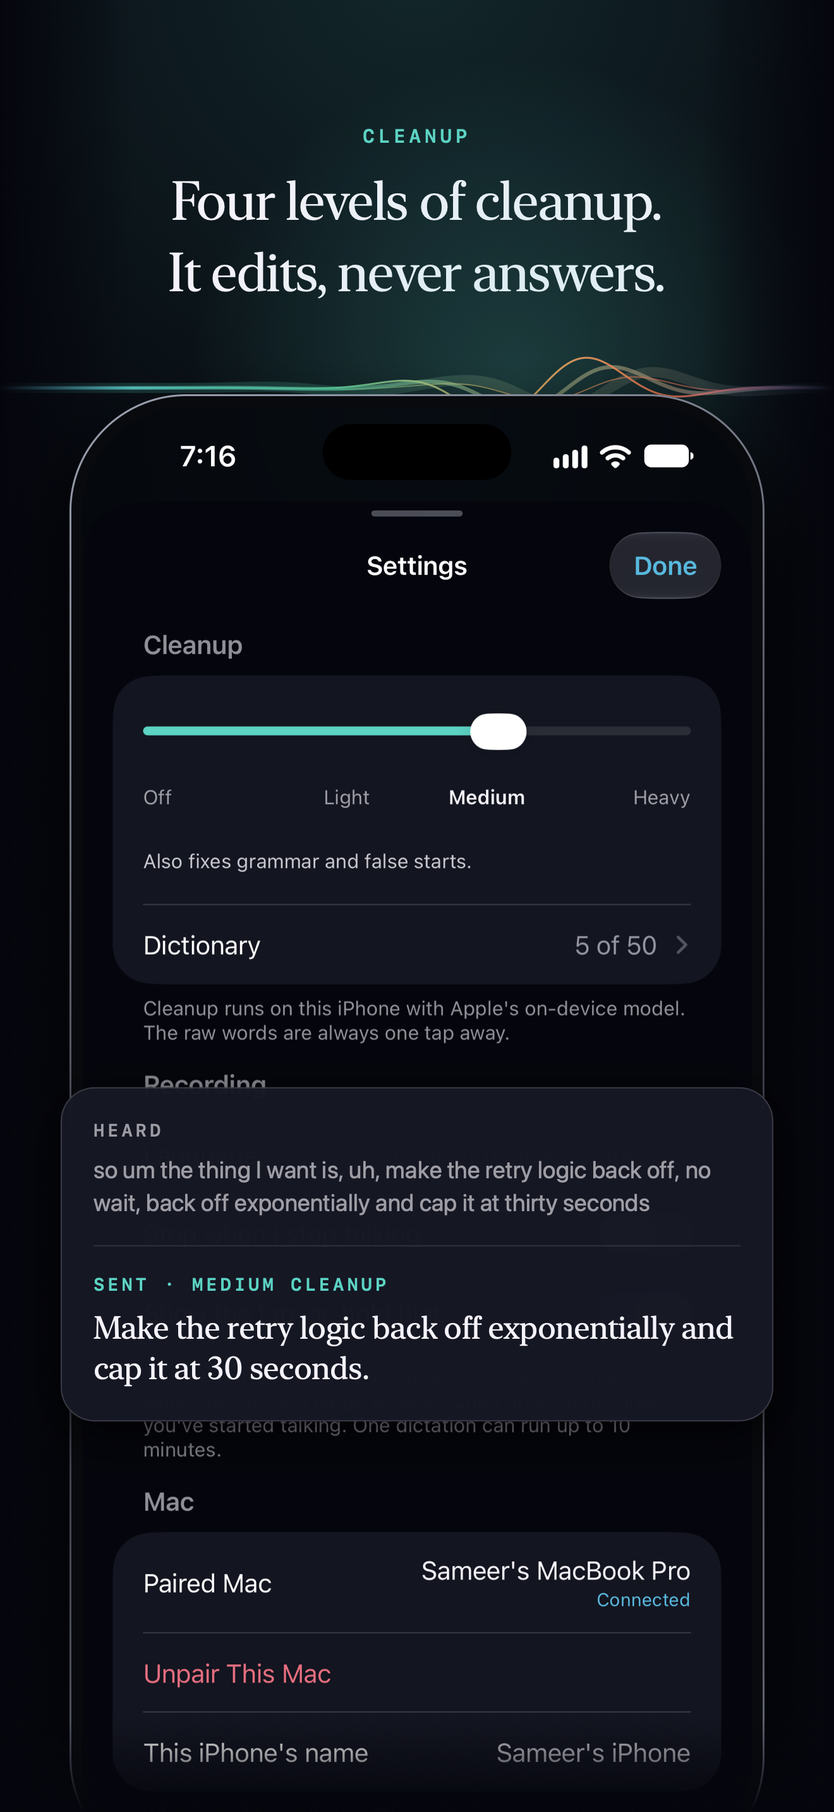
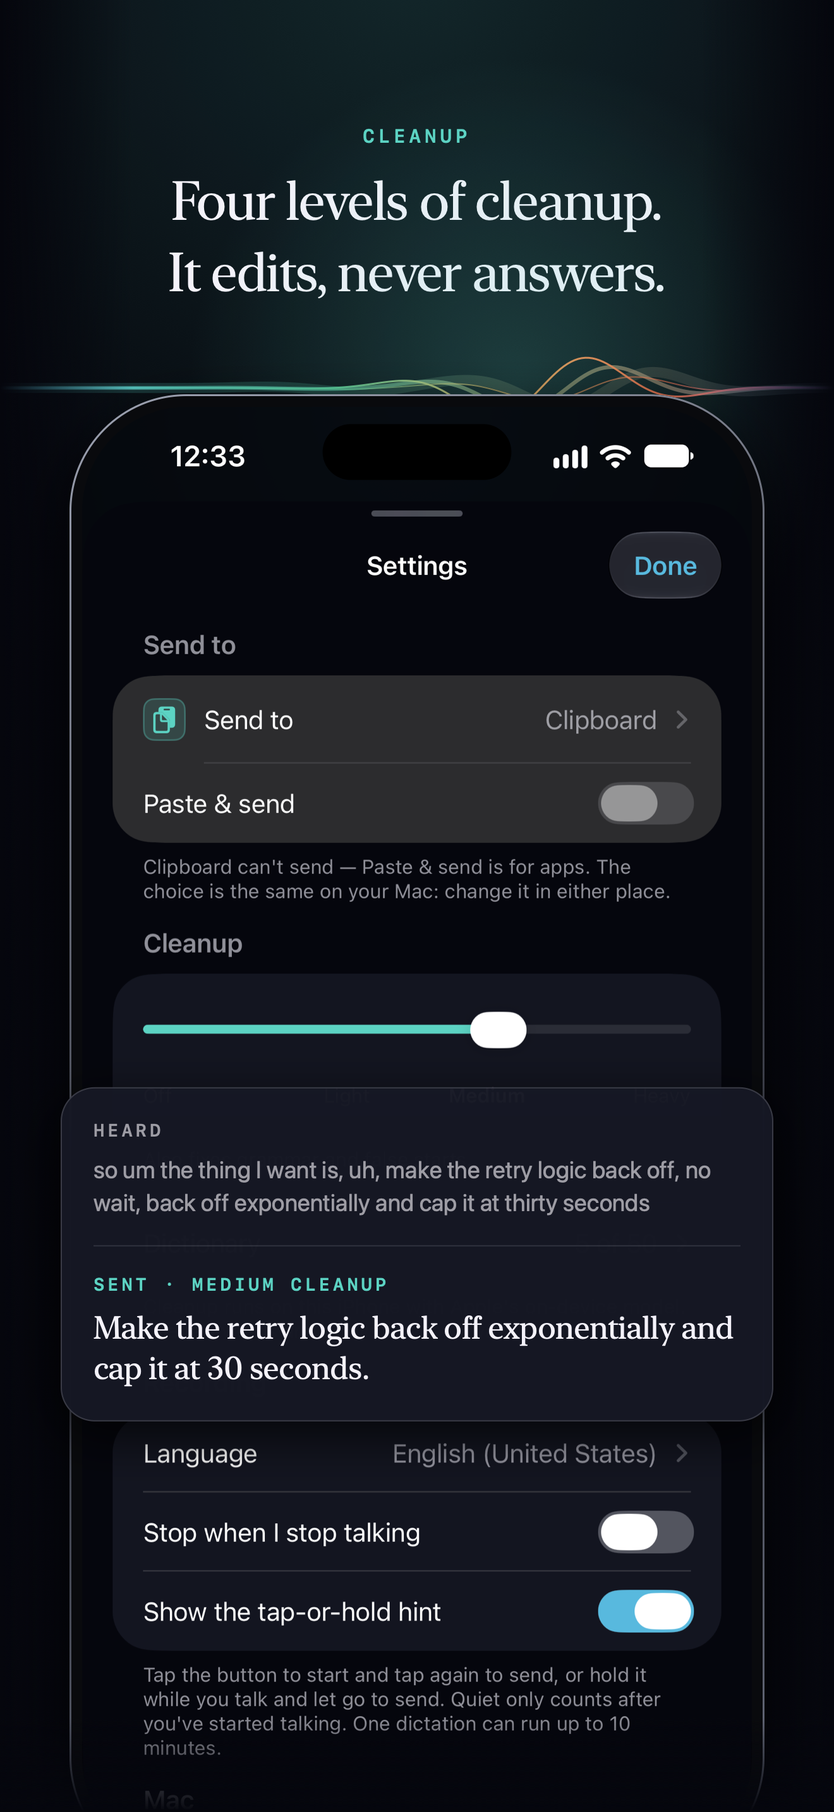
iPhone: status line fills its fixed slot (shrinks to fit, Open Settings rides in the line), idle words step down at huge text, Paste/Send follows an app said first, Mac-sent names shown as the phone lists them, Paste control after the list in the picker; tests for accessibility sizes, quick controls

diff --git a/iOS/MacrophoneUITests/MacrophoneUITests.swift b/iOS/MacrophoneUITests/MacrophoneUITests.swift
@@ -20,6 +20,12 @@ final class MacrophoneUITests: XCTestCase {
         app.staticTexts.containing(NSPredicate(format: "label CONTAINS %@", text)).firstMatch.waitForExistence(timeout: timeout)
     }
 
+    /// Delivered (in the Mac's own words: "Pasted into …", "Sent to …", "Copied …"), copied on the
+    /// iPhone, or queued.
+    private func delivered(_ app: XCUIApplication) -> Bool {
+        statusContains(app, "Delivered") || ["Copied", "Pasted into", "Sent to", "Printed by", "queued"].contains { statusContains(app, $0, timeout: 1) }
+    }
+
     func testTapStartsAndTapSends() {
         let app = launch(["MACROPHONE_SCREEN": "main", "MACROPHONE_SIM_RECORD": "testing the tap to talk path one two three"])
         let start = app.buttons["Start dictation"]
@@ -31,7 +37,7 @@ final class MacrophoneUITests: XCTestCase {
         XCTAssertTrue(stop.exists, "a quick tap keeps recording (tap mode)")
         stop.tap()
         XCTAssertTrue(app.buttons["Start dictation"].waitForExistence(timeout: 5), "a second tap stops")
-        XCTAssertTrue(statusContains(app, "Delivered") || statusContains(app, "Copied on iPhone", timeout: 1) || statusContains(app, "queued", timeout: 1))
+        XCTAssertTrue(delivered(app))
     }
 
     func testHoldToTalkSendsOnRelease() {
@@ -41,7 +47,7 @@ final class MacrophoneUITests: XCTestCase {
         start.press(forDuration: 1.5)
         XCTAssertTrue(app.buttons["Start dictation"].waitForExistence(timeout: 3), "letting go stops")
         XCTAssertFalse(app.buttons["Stop and send"].exists)
-        XCTAssertTrue(statusContains(app, "Delivered") || statusContains(app, "Copied on iPhone", timeout: 1) || statusContains(app, "queued", timeout: 1))
+        XCTAssertTrue(delivered(app))
     }
 
     /// The mic button sits in one place: idle or recording, with or without a last dictation,
@@ -110,6 +116,31 @@ final class MacrophoneUITests: XCTestCase {
                       "MACROPHONE_FAKE_TRANSCRIPT": "hello from my iPhone", "MACROPHONE_FAKE_DELAY": "1"])
         XCTAssertTrue(app.buttons["mac-app-nudge"].waitForExistence(timeout: 10))
         same(idle, frame(app, "Start dictation"), "the Mac-app nudge keeps the button in place")
+    }
+
+    /// At accessibility text sizes the page may scroll, but starting to record still doesn't move
+    /// the button: the card keeps its room and fades, the quick controls stay where they are.
+    func testMicButtonNeverMovesAtAccessibilitySizes() {
+        for size in ["UICTContentSizeCategoryAccessibilityM", "UICTContentSizeCategoryAccessibilityXXXL"] {
+            let app = XCUIApplication()
+            app.launchArguments = ["-UIPreferredContentSizeCategoryName", size]
+            app.launchEnvironment = ["MACROPHONE_RESET": "1", "MACROPHONE_SCREEN": "main", "MACROPHONE_FAKE_PAIRED": "Test Mac",
+                                     "MACROPHONE_FAKE_HISTORY": "1", "MACROPHONE_SEND_TO": "Claude", "MACROPHONE_SEND": "1",
+                                     "MACROPHONE_SIM_RECORD": "Messages, a long enough sentence to fill a few lines of words while I keep on talking"]
+            app.launch()
+            let start = app.buttons["Start dictation"]
+            XCTAssertTrue(start.waitForExistence(timeout: 8))
+            let idle = start.frame
+            start.tap()
+            sleep(3)
+            let stop = app.buttons["Stop and send"]
+            XCTAssertTrue(stop.waitForExistence(timeout: 3))
+            XCTAssertEqual(idle.midY, stop.frame.midY, accuracy: 0.5, "\(size): recording keeps the button in place")
+            stop.tap()
+            sleep(4)
+            XCTAssertEqual(idle.midY, app.buttons["Start dictation"].frame.midY, accuracy: 0.5, "\(size): the new last dictation keeps the button in place")
+            app.terminate()
+        }
     }
 
     /// Each quick control changes the next dictation: where it goes, Paste or Paste & send, and the
@@ -290,6 +321,27 @@ final class MacrophoneUITests: XCTestCase {
         let app = launch(["MACROPHONE_RESET": "1", "MACROPHONE_FAKE_PAIRED": "Sameer's MacBook Pro", "MACROPHONE_FAKE_HISTORY": "1", "MACROPHONE_SCREEN": ProcessInfo.processInfo.environment["MACROPHONE_DUMP"] ?? "history"])
         sleep(3)
         print("DUMP\n" + app.debugDescription)
+    }
+
+    /// Against a real stand-in Mac (`mpctl serve --commands`, already paired): a pick on the phone
+    /// reaches the Mac, and a change made on the Mac shows on the phone's chip while it's open.
+    /// Run with TEST_RUNNER_MACROPHONE_LIVE=1; while it waits, type `select com.anthropic.claudefordesktop`
+    /// into mpctl.
+    func testLiveSyncWithMac() throws {
+        guard ProcessInfo.processInfo.environment["MACROPHONE_LIVE"] == "1" else { throw XCTSkip("needs mpctl serve") }
+        let app = launch(["MACROPHONE_SCREEN": "main"])
+        XCTAssertTrue(statusContains(app, "Ready", timeout: 20), "connected")
+        app.buttons["send-to"].tap()
+        let messages = app.buttons.containing(NSPredicate(format: "label BEGINSWITH 'Messages'")).firstMatch
+        XCTAssertTrue(messages.waitForExistence(timeout: 5), "the Mac's open apps are listed")
+        messages.tap()
+        XCTAssertTrue(app.buttons["Paste & send"].waitForExistence(timeout: 3))
+        app.buttons["Paste & send"].tap()
+        print("LIVE picked Messages + send")
+        let changed = NSPredicate(format: "label CONTAINS 'Claude'")
+        expectation(for: changed, evaluatedWith: app.buttons["send-to"])
+        waitForExpectations(timeout: 60)
+        print("LIVE chip now: \(app.buttons["send-to"].label)")
     }
 
     func testPairingLinkFromCamera() throws {

diff --git a/iOS/Macrophone/UI/StatusLine.swift b/iOS/Macrophone/UI/StatusLine.swift
@@ -11,51 +11,39 @@ struct StatusLine: View {
 
     var body: some View {
         let (text, color) = content
-        let settings = settingsLink
         Group {
-            if settings {
+            if settingsLink {
                 // The fix is in Settings: the whole line is the way there (no extra row to make room for).
                 Button {
                     if let url = URL(string: UIApplication.openSettingsURLString) { UIApplication.shared.open(url) }
-                } label: { ladder(text, color, link: true) }
+                } label: { line(text, color, link: true) }
                 .buttonStyle(.plain)
                 .accessibilityLabel(text)
                 .accessibilityHint("Opens Settings.")
             } else {
-                ladder(text, color, link: false)
-                    .accessibilityElement(children: .ignore)
+                line(text, color, link: false)
                     .accessibilityLabel(text)
                     .accessibilityAddTraits(.updatesFrequently)
             }
         }
-        .frame(maxWidth: .infinity)
+        .frame(maxWidth: .infinity, maxHeight: .infinity, alignment: .top)
         .padding(.horizontal, 24)
         .animation(.easeInOut(duration: 0.2), value: text)
     }
 
     private var settingsLink: Bool { if case .problem(_, true) = model.status { return true }; return false }
 
-    /// The line in the largest size that fits its fixed slot (MainView): the status font, then a
-    /// size down, then two down — never cut.
-    private func ladder(_ text: String, _ color: Color, link: Bool) -> some View {
-        ViewThatFits(in: .vertical) {
-            line(text, color, link: link, font: .subheadline)
-            line(text, color, link: link, font: .footnote)
-            line(text, color, link: link, font: .caption)
-            line(text, color, link: link, font: .caption2).minimumScaleFactor(0.7)
-        }
-    }
-
-    private func line(_ text: String, _ color: Color, link: Bool, font: Font) -> some View {
+    /// The line fills its fixed slot (MainView): a long one shrinks to fit whole — never cut.
+    private func line(_ text: String, _ color: Color, link: Bool) -> some View {
         // The dot rides in the sentence, so it stays beside the first word however the line wraps.
         var t = Text(Image(systemName: "circle.fill")).font(.system(size: dotSize)).foregroundColor(color).baselineOffset(dotSize * 0.2)
             + Text("\u{2002}") + Text(text)
         if link { t = t + Text("  Open Settings").foregroundColor(Light.cyan).fontWeight(.semibold) }
         return t
-            .font(font)
+            .font(.subheadline)
             .foregroundStyle(Ink.secondary)
             .multilineTextAlignment(.center)
-            .fixedSize(horizontal: false, vertical: true)
+            .minimumScaleFactor(0.6)
             .shadow(color: color.opacity(0.25), radius: 6)
     }
 

diff --git a/iOS/Macrophone/UI/SendTo.swift b/iOS/Macrophone/UI/SendTo.swift
@@ -362,22 +362,6 @@ struct SendToList: View {
 
     var body: some View {
         List {
-            if settings.selection.target.canSend {
-                Section {
-                    Picker("After pasting", selection: Binding(get: { settings.selection.send }, set: { model.setSend($0) })) {
-                        Text("Paste").tag(false)
-                        Text("Paste & send").tag(true)
-                    }
-                    .pickerStyle(.segmented)
-                    .accessibilityIdentifier("picker-send")
-                } header: {
-                    Text("For \(settings.selection.target.displayName)")
-                } footer: {
-                    Text("Paste & send presses the app's send key after a short countdown on your Mac. Remembered for each place.")
-                }
-                .listRowBackground(Ink.raised)
-            }
-
             Section {
                 row(.clipboard, icon: nil, subtitle: "Copies it on your Mac, to paste yourself")
                 row(.frontApp, icon: nil, subtitle: "Pastes into whatever app is in front on your Mac")
@@ -417,6 +401,21 @@ struct SendToList: View {
                 } footer: {
                     Text("Notes, reminders, scripts and the like, set up in Macrophone on your Mac. Start with an automation's name to use it once: “Note, call the bank.”")
                         .padding(.top, 4)
+                }
+                .listRowBackground(Ink.raised)
+            }
+            if settings.selection.target.canSend {
+                Section {
+                    Picker("After pasting", selection: Binding(get: { settings.selection.send }, set: { model.setSend($0) })) {
+                        Text("Paste").tag(false)
+                        Text("Paste & send").tag(true)
+                    }
+                    .pickerStyle(.segmented)
+                    .accessibilityIdentifier("picker-send")
+                } header: {
+                    Text("For \(settings.selection.target.displayName)")
+                } footer: {
+                    Text("Paste & send presses the app's send key after a short countdown on your Mac. Remembered for each place.")
                 }
                 .listRowBackground(Ink.raised)
             }

diff --git a/iOS/Macrophone/App/AppModel.swift b/iOS/Macrophone/App/AppModel.swift
@@ -968,6 +968,11 @@ extension AppModel: LinkClientDelegate {
     func linkClient(_ client: LinkClient, selectionChanged selection: SendSelection, macID: UUID) {
         guard client === self.client else { return }
         recordingOverride = nil
+        var selection = selection
+        // Show the app the way the phone lists it ("Terminal — claude"), whatever name the Mac sent.
+        if case .app = selection.target, let live = liveTarget(for: selection.target) {
+            selection = SendSelection(target: live.ref, send: selection.send)
+        }
         settings.selection = selection
         log.add("send to changed on the Mac: \(Self.kind(selection.target))\(selection.send ? " + send" : "")")
     }

diff --git a/iOS/Macrophone/UI/MainView.swift b/iOS/Macrophone/UI/MainView.swift
@@ -151,6 +151,9 @@ struct MainView: View {
             }
             idleLine(line, compact ? .title3 : .title2)
             idleLine(line, .headline)
+            // Huge text in a short area: the line, shrunk to fit whole rather than cut off.
+            Text(line).font(.serif(.headline)).foregroundStyle(Ink.ink).multilineTextAlignment(.center)
+                .lineLimit(3).minimumScaleFactor(0.4)
         }
         .frame(maxWidth: .infinity)
         .padding(.bottom, 8)
@@ -212,6 +215,7 @@ struct MainView: View {
         } content: {
             StatusLine(recorder: recorder, holding: holding)
         }
+        .dynamicTypeSize(...DynamicTypeSize.accessibility3)
     }
 
     private func pressDown() {

diff --git a/iOS/Macrophone/Model/HistoryItem.swift b/iOS/Macrophone/Model/HistoryItem.swift
@@ -36,6 +36,7 @@ struct HistoryItem: Codable, Identifiable, Sendable, Hashable {
     /// "Messages", "Clipboard", "Where I'm typing", an automation's name — or nil for older
     /// dictations sent on Automatic.
     var targetName: String? {
+        if delivery == .copiedOnPhone { return nil }   // no Mac: it never went anywhere but here
         if let t = dictation.target { return t.displayName }
         return dictation.profileSource == .automatic ? nil : dictation.profileName
     }

diff --git a/iOS/docs/RECORDING.md b/iOS/docs/RECORDING.md
@@ -31,7 +31,7 @@
 
 ## Cleanup
 
-`Cleaner.clean(_:level:dictionary:language:deadline:)` with the level (the target's level wins
+`Cleaner.clean(_:level:dictionary:language:deadline:)` with the level (an automation's level wins
 when it sets one), prewarmed on record start (the prewarmed session is reused when the level
 and dictionary match). English only; unavailable → the dial is disabled with its one-line
 explanation and the app behaves as Off.
@@ -45,39 +45,89 @@ finish before the deadline: finished chunks come back cleaned and the rest as sp
 dictation card); the Raw toggle still holds the whole transcript. A hard stop 5 s past the
 deadline sends the words as spoken if a model call hangs.
 
-## Send to (targets)
+## Send to: the Mac's open apps (Oct 13 2026)
 
-The Mac's profiles are **targets** ("Claude", "Claude Code (Terminal)", "ChatGPT", …). The
-phone keeps the last list it was sent (`CachedProfile`: each target's name, cleanup level and
-voice prefixes), so the picker, voice prefixes, Shortcuts and the Control Center control work
-while the Mac is away. The app keeps it in its defaults and mirrors it to a keychain item in the
-shared access group `<team>.com.sameer.macrophone.shared`, which the Controls extension reads to
-offer targets ("Dictate to Claude"). Not an App Group: the wildcard team profile this Mac signs
-with can't carry one. The app's own keychain group stays first in `keychain-access-groups`, so
-the pairing key (stored without an explicit group) stays private to the app; a pairing made
-before this entitlement still loads (checked on the simulator).
+Sameer's simplification: no configured targets, no Automatic, no per-app rules. The Mac lists
+every open app (or window) with somewhere to type (`LiveTarget`: icon, name, newest first) and
+the phone picks one. Before/after screens: `docs/screens/targets/`.
 
-For each dictation (`AppModel.route(for:)`):
+**The picker** (`UI/SendTo.swift`, `SendToList`): **Clipboard**, **Where I'm typing** (the app in
+front on the Mac), then **Open on <Mac>** — the apps the Mac reports, windows as their own rows
+("Terminal — claude"), the Mac's icons — then **Automations** (the Mac's profiles, which are now
+only automations: notes, reminders, tmux, Ask Claude, scripts…). Opening it asks the Mac to look
+again (`refreshTargets()`). A picked app that's no longer open stays picked and shows "Not open on
+your Mac — it'll be copied instead" (the chip gets an ochre edge and says so to VoiceOver). The
+list is cached (`targets.json`; names only for Shortcuts and the control) so it works while the
+Mac is away.
 
-1. **Voice prefix** — `VoicePrefix.match(raw, profiles:)` on the transcript. A match picks that
-   target for this one dictation (`profileSource = .prefix`), its cleanup level applies, and the
-   prefix is taken off what's cleaned and sent. `raw` keeps exactly what was heard; when
-   cleanup is off the stripped words go in `cleaned` (the toggle reads "Sent / Raw"). Status:
-   "Sent to Claude — you said “Claude, …”". While recording, the chip flips to "SAID · Claude"
-   the moment the prefix is heard.
-2. **A Shortcut, Siri, the Action Button or a control** that names a target → `.chosen` for
-   that recording (its "Automatic" entity → `.automatic`). It doesn't change the saved choice.
-3. **The Send-to chip** by the mic: Automatic (`.automatic`, no profile id — the Mac picks by
-   the app in front) or a target (`.chosen`). A fresh install defaults to Automatic; a target
-   the Mac drops falls back to Automatic.
+**One shared choice** (`SendSelection` in `Settings.selection`, a fresh install = Clipboard):
+`client.selectionProvider` reads it (without the main actor) and the link sends it after every
+welcome, so on reconnect **the phone's choice wins**; any change on the phone calls
+`client.setSelection`; a change made on the Mac (`selectionChanged`) is applied without being sent
+back, its app name swapped for the phone's own listing. Paste or Paste & send is remembered per
+target (`settings.sendByTarget`, keyed by `TargetRef.storageKey`) and only offered for apps and
+Where I'm typing.
 
-Verified against `scripts/route-sink` (a stand-in Mac offering prefixed targets; prints each
-dictation's `profileSource`, target, raw and sent text): Automatic → `automatic`, no profile;
-"Claude, refactor…" → `prefix` Claude, sent "Refactor…", raw intact; "Claude code: run…" →
-the longer prefix wins, at that target's Light cleanup; "Chat GPT. Compare…" → ChatGPT; a
-pick → `chosen`; a sentence that only starts like a prefix ("note that…") → the pick; the
-Start Dictation intent with a target → `chosen`, with Automatic → `automatic`, overriding the
-saved pick.
+**The quick controls by the mic** (Sameer: the level of correction, which app, paste or paste
+and send — "all those should be quick taps"): one tap each, applied to the next dictation (or the
+one being recorded — the route is read when it's processed) and synced to the Mac at once.
+1. **Where** — the chip: icon + name ("SEND TO" kicker, "SAID" in ember while a spoken name is
+   heard); tap → the picker. Long names step down a ladder (kicker off → smaller → two lines),
+   never "…".
+2. **Paste | Paste & send** — a two-way switch, no sheet; disabled with its reason ("Clipboard
+   can't send", "Automations can't send", "Pair your Mac to send"). While recording with an app
+   said first, it shows and sets that app's own setting.
+3. **Cleanup** — a menu chip ("Medium cleanup ⌄"): the four levels each with their one-line
+   summary, the current one ticked; unavailable → "Cleanup off" and the reason on tap. A menu,
+   not tap-to-cycle: each level says what it does before you pick it, and any level is one tap
+   from the menu instead of up to three taps around a cycle. An automation with its own level
+   says so in the menu.
+While recording the row stays, quieter (60%), and still works. Settings › Send to has the same
+choice and switch; Settings › Cleanup the dial.
+
+**Routing one dictation** (`AppModel.route(for:)`): an open app's name said first
+(`SpokenTarget.match`, before cleanup: "Messages, tell Sam I'm late" → Messages, sent "Tell Sam
+I'm late", with that app's Paste/Send setting, `targetSpoken = true`) > an automation's lead-in
+(`VoicePrefix.match`) > a Shortcut's pick for this recording > the shared choice. Raw history keeps
+exactly what was heard. **Every dictation carries `target` and `send`**; `profileID`,
+`profileName` and `profileSource` only for automations.
+
+**Status lines** use the Mac's ack detail: "Pasted into Claude", "Sent to Claude", "Claude isn't
+open on your Mac — copied instead"; said first → "Sent to Messages — you said “Messages” first".
+
+**Shortcuts, Siri, the Action Button, Control Center:** Start Dictation's "Send To"
+(`TargetEntity`, ids `clipboard` / `front` / `app:<bundleID>#<windowKey>` / `auto:<UUID>`) offers
+Clipboard, Where I'm typing, the cached open apps and the automations; a closed app still resolves
+(the Mac copies). The control's title follows ("Dictate to Messages"). Phrases: "Dictate to / Send
+to / Dictate into <place> with Macrophone".
+
+**Verified against `mpctl serve --commands`** (iPhone 17 Pro simulator): the picker lists its three
+apps; picking Messages then Paste & send printed `SELECTION Messages` / `SELECTION Messages + send`;
+typing `select com.anthropic.claudefordesktop` into mpctl turned the open app's chip to Claude
+(`testLiveSyncWithMac`, run with `TEST_RUNNER_MACROPHONE_LIVE=1`); with the app killed, `select
+com.apple.Terminal send` on the "Mac", then relaunched → mpctl printed `SELECTION Claude` (the
+phone's). **Against `scripts/route-sink`** (prints target/send/said/level): "Messages, tell Sam I'm
+late" → `target=app(com.apple.MobileSMS, Messages) send=true said=true level=medium`, sent "Tell
+Sam I'm late."; Where I'm typing + send at Light → `target=front send=true level=light`.
+
+## The mic never moves (Oct 13 2026)
+
+Sameer: holding the button, it shifted down under his finger. The page is now fixed slots
+(`MainView`, `FixedSlot`): the quick controls, the mic, the status line and the bottom (last
+dictation + History) each take the size of a **hidden worst-case template** — a two-line target
+name over the paste/cleanup line; two lines of status (three at accessibility sizes); the card
+with a two-line kicker, the toggle, text at its cap, Copy and Resend — and the real content is laid
+over it (an overlay never sizes its parent). Only the words area above flexes; idle and live
+words share it. Recording fades the card to 22% instead of removing it. Long statuses step down a
+font size to fit; an Open Settings problem makes the whole line the button. The Mac-app nudge
+lives in the chip's line when unpaired. SE-class heights drop the bottom History button (the top
+bar has it) and shorten the card and Filament. `testMicButtonNeverMoves` checks idle, recording
+with a spoken app, a send change mid-recording, sending, delivered, a hold, queued, failed,
+problem, not open, Clipboard, Where I'm typing, an automation, a very long window name, cleanup
+off/heavy, no history, unpaired and the nudge — passing on iPhone SE (3rd gen), 17 Pro and 17 Pro
+Max; `testMicButtonNeverMovesAtAccessibilitySizes` at AX M and AX XXXL.
+`testQuickControlsChangeTheNextDictation` drives each control and reads the route
+(`MACROPHONE_ROUTE_PROBE`).
 
 ## Delivery
 
@@ -109,7 +159,9 @@ quality, segment stitching on real audio, and the 5/10-minute caps need the devi
 See `Macrophone/App/DebugHooks.swift`: `MACROPHONE_SCREEN`, `MACROPHONE_ONBOARDING_STEP`,
 `MACROPHONE_FAKE_TRANSCRIPT` (+ `_EARLY`, `_DELAY`), `MACROPHONE_FAKE_RECORDING`,
 `MACROPHONE_SIM_RECORD` (stand-in recognizer for the real button), `MACROPHONE_FAKE_HISTORY`,
-`MACROPHONE_FAKE_PAIRED`, `MACROPHONE_FAKE_PROFILES`, `MACROPHONE_SEND_TO`, `MACROPHONE_INTENT_TARGET`,
+`MACROPHONE_FAKE_PAIRED`, `MACROPHONE_FAKE_PROFILES` (automations), `MACROPHONE_FAKE_TARGETS` (open apps:
+`default|long|none`), `MACROPHONE_SEND_TO` (`clipboard|front|<name>`), `MACROPHONE_SEND`, `MACROPHONE_CLEANUP`,
+`MACROPHONE_CLEANUP_AVAILABLE`, `MACROPHONE_ROUTE_PROBE`, `MACROPHONE_INTENT_TARGET`,
 `MACROPHONE_STATUS`, `MACROPHONE_OPEN_URL`, `MACROPHONE_PAIR_CODE`,
 `MACROPHONE_UNPAIR`, `MACROPHONE_RESEND_LATEST`, `MACROPHONE_RECORD`, `MACROPHONE_RESET`,
 `MACROPHONE_PAIRING` (`connecting|code|paired|failed|expired`: the pairing panel in that phase).
@@ -157,6 +209,6 @@ xcodebuild -project Macrophone.xcodeproj -scheme Macrophone -sdk iphonesimulator
 TEST_RUNNER_MACROPHONE_PAIR_URL='macrophone://pair?…' xcodebuild test -project Macrophone.xcodeproj \
   -scheme Macrophone -destination 'id=<your simulator>' -derivedDataPath build
 swift scripts/render-icon.swift   # re-renders the app icon
-cd scripts/route-sink && swift run route-sink --state /tmp/mp-route-sink   # a Mac with prefixed targets
+cd scripts/route-sink && swift run route-sink --state /tmp/mp-route-sink   # a Mac with open apps + automations
 scripts/capture-store-shots.sh && swift scripts/render-store-shots.swift  # App Store screenshots
 ```
